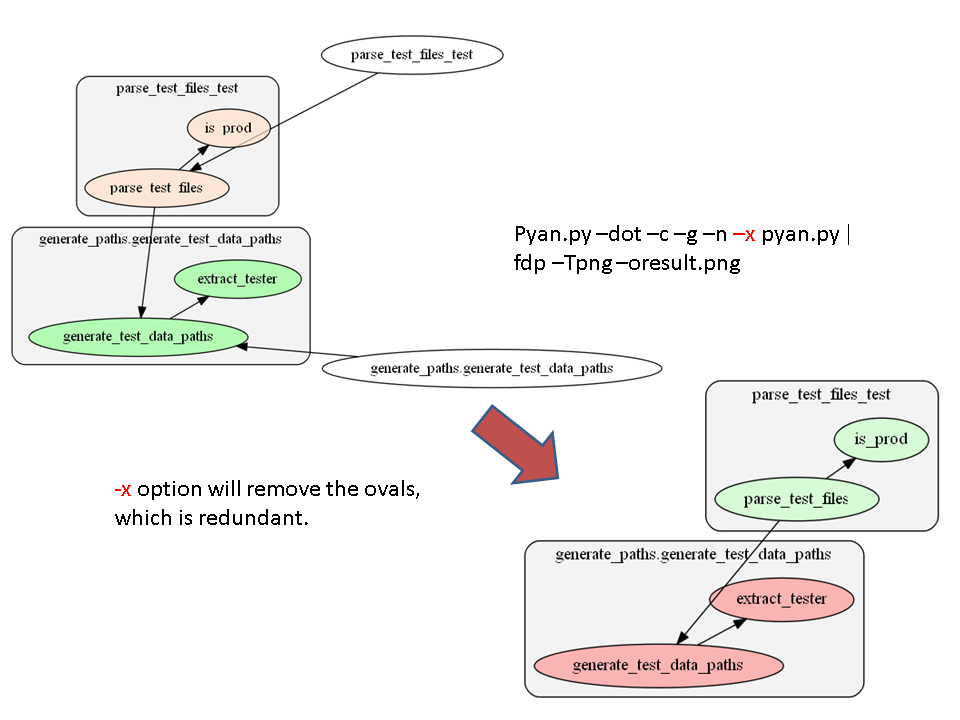
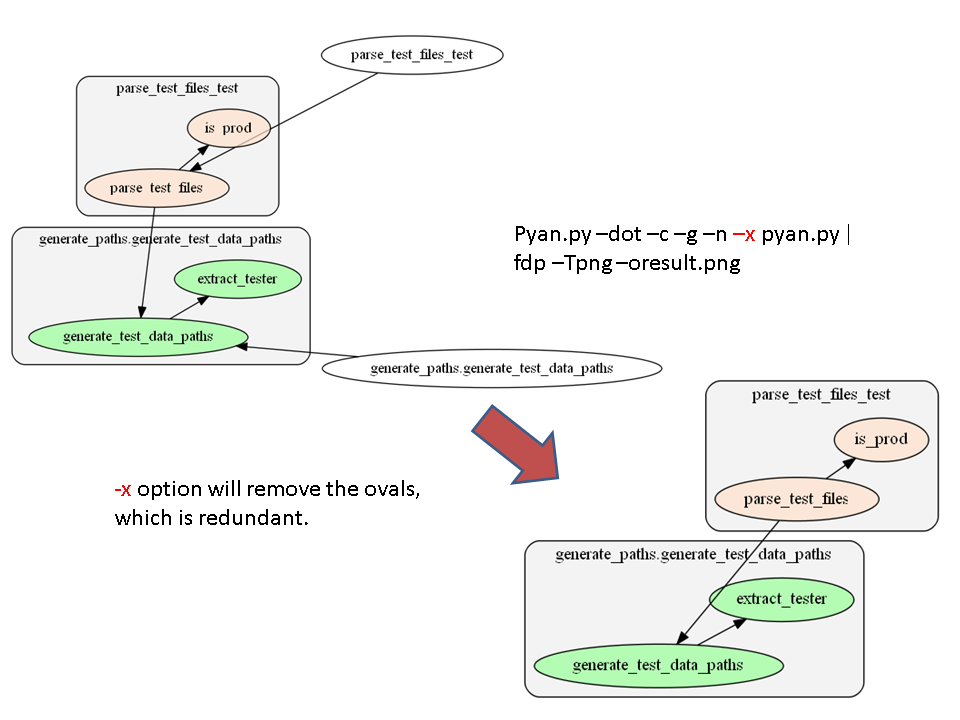
(1) A Bug fixed - color and logic to remove files and (2) Plot is update

Changed region(s): [[0.5625, 0.7944, 0.9062, 0.9778], [0.75, 0.6417, 0.9375, 0.7333], [0.875, 0.5806, 0.9688, 0.6417]]

diff --git a/pyan.py b/pyan.py
@@ -650,26 +650,27 @@ class CallGraphVisitor(object):
                 s += """%s    graph [style="filled,rounded", fillcolor="#80808018", label="%s"];\n""" % (indent, n.namespace)
 
             # add the node itself
-            if vis_node_list.index(n) >= nfiles:
-                if colored:
-                    idx = get_hue_idx(n)
-                    H = hues[idx]
-                    S = 1.0
-                    L = max( [1.0 - 0.1*n.get_level(), 0.1] )
-                    A = 0.7  # make nodes translucent (to handle possible overlaps)
-                    fill_RGBA = list(hsl2rgb(H,S,L))
-                    fill_RGBA.append(A)
-                    fill_RGBA = htmlize_rgb( *fill_RGBA )
+            if colored:
+                idx = get_hue_idx(n)
+                H = hues[idx]
+                S = 1.0
+                L = max( [1.0 - 0.1*n.get_level(), 0.1] )
+                A = 0.7  # make nodes translucent (to handle possible overlaps)
+                fill_RGBA = list(hsl2rgb(H,S,L))
+                fill_RGBA.append(A)
+                fill_RGBA = htmlize_rgb( *fill_RGBA )
 
-                    if L >= 0.3:
-                        text_RGB = htmlize_rgb( 0.0, 0.0, 0.0 )  # black text on light nodes
-                    else:
-                        text_RGB = htmlize_rgb( 1.0, 1.0, 1.0 )  # white text on dark nodes
-
-                    s += """%s    %s [label="%s", style="filled", fillcolor="%s", fontcolor="%s", group="%s"];\n""" % (indent, n.get_label(), n.get_short_name(), fill_RGBA, text_RGB, idx)
+                if L >= 0.3:
+                    text_RGB = htmlize_rgb( 0.0, 0.0, 0.0 )  # black text on light nodes
                 else:
-                    fill_RGBA = htmlize_rgb( 1.0, 1.0, 1.0, 0.7 )
-                    idx = get_hue_idx(n)
+                    text_RGB = htmlize_rgb( 1.0, 1.0, 1.0 )  # white text on dark nodes
+
+                if not node_off or idx > 0:
+                    s += """%s    %s [label="%s", style="filled", fillcolor="%s", fontcolor="%s", group="%s"];\n""" % (indent, n.get_label(), n.get_short_name(), fill_RGBA, text_RGB, idx)
+            else:
+                fill_RGBA = htmlize_rgb( 1.0, 1.0, 1.0, 0.7 )
+                idx = get_hue_idx(n)
+                if not node_off or idx > 0:
                     s += """%s    %s [label="%s", style="filled", fillcolor="%s", fontcolor="#000000", group="%s"];\n""" % (indent, n.get_label(), n.get_short_name(), fill_RGBA, idx)
 
         if grouped:
@@ -698,7 +699,7 @@ class CallGraphVisitor(object):
             for n in self.uses_edges:
                 for n2 in self.uses_edges[n]:
                     if n2.defined and n2 != n:
-                        if not node_off or (n.get_label() not in n2.get_label()):
+                        if not node_off or n.namespace:
                             s += """    %s -> %s;\n""" % (n.get_label(), n2.get_label())
 
         s += """}\n"""  # terminate "digraph G {"
